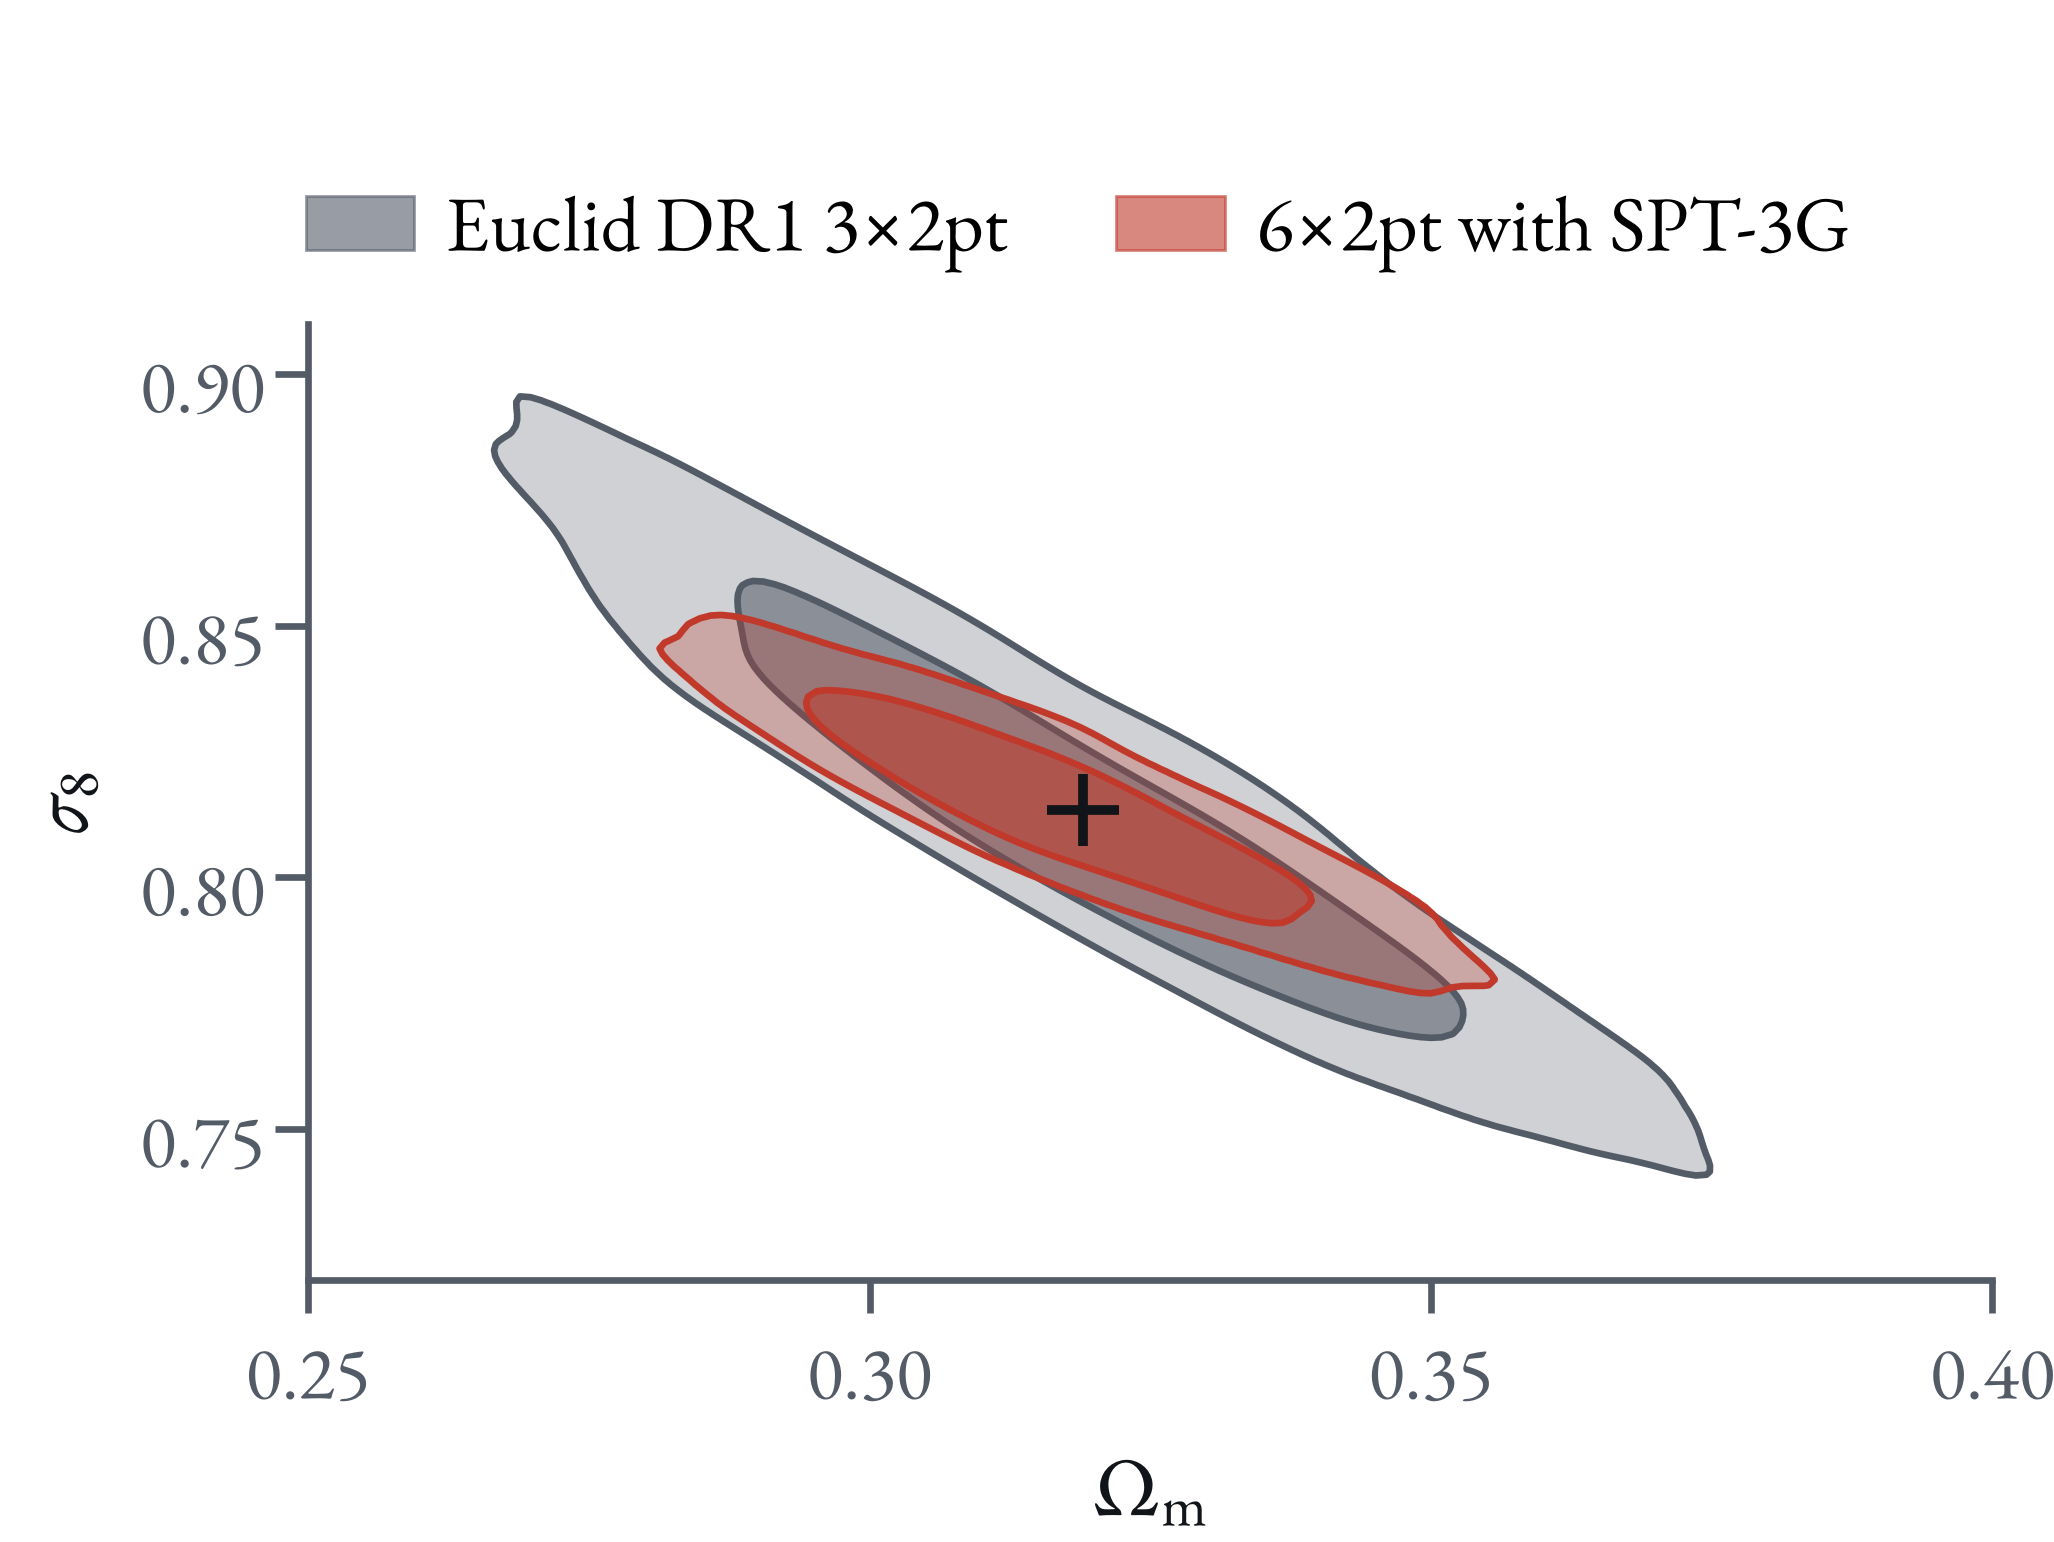
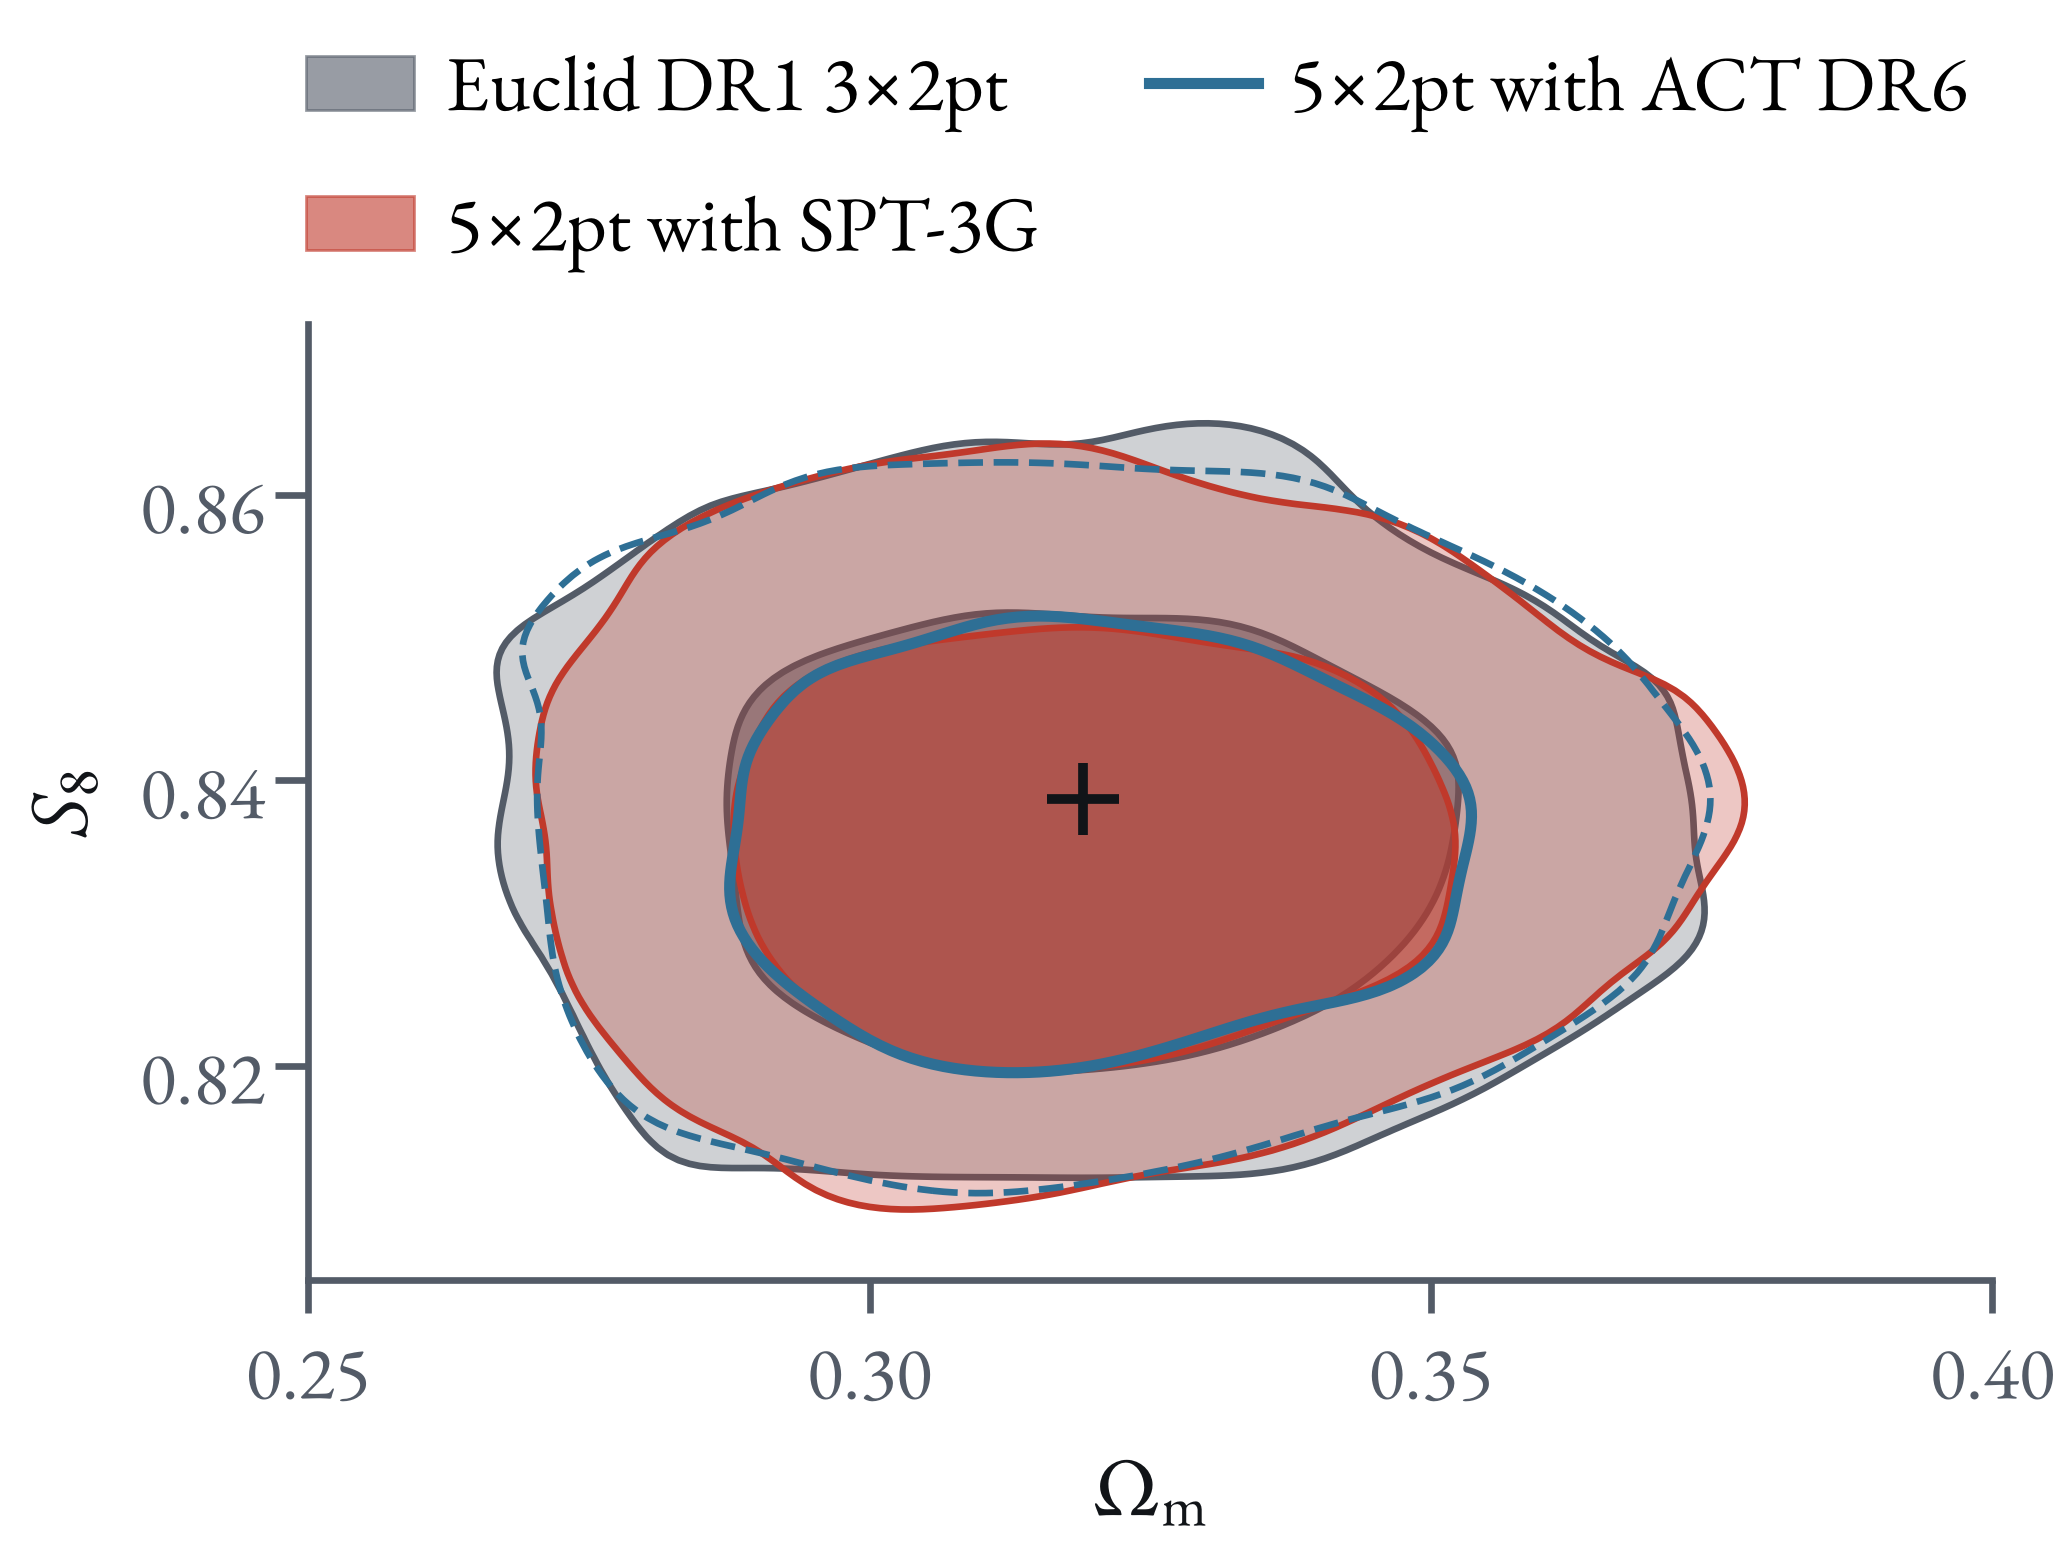
ICE dr1-forecast: S8 against Omega_m, figure of merit, 3x2pt then 5x2pt then 6x2pt in its place
Claude-Session: https://claude.ai/code/session_01JK7o9EG7ekMfsN4ix87xAs

diff --git a/2611_ICE_Barcelona/slides/dr1-forecast.html b/2611_ICE_Barcelona/slides/dr1-forecast.html
@@ -1,23 +1,23 @@
 <section data-layout="figure-text" data-split="60">
-  <h2>CMB lensing halves the DR1 error on σ<sub>8</sub></h2>
+  <h2>CMB lensing more than doubles the DR1 figure of merit</h2>
   <figure>
-    <img src="images/ice_dr1_forecast_1.png" alt="Forecast sigma8 against Omega_m for Euclid DR1 3x2pt on its own, a narrow tilted ellipse">
-    <img class="fragment" data-fragment-index="1" src="images/ice_dr1_forecast_2.png" alt="The same with the SPT-3G Main and Summer 6x2pt added: a red ellipse about half as long along the degeneracy">
-    <img class="fragment" data-fragment-index="2" src="images/ice_dr1_forecast_3.png" alt="The ACT DR6 6x2pt outlined, between the two">
+    <img src="images/ice_dr1_forecast_1.png" alt="Forecast S8 against Omega_m for Euclid DR1 3x2pt on its own, a tilted ellipse">
+    <img class="fragment" data-fragment-index="1" src="images/ice_dr1_forecast_2.png" alt="The 5x2pt with SPT-3G and with ACT DR6 drawn over it: both nearly the same as the 3x2pt">
+    <img class="fragment" data-fragment-index="2" src="images/ice_dr1_forecast_3.png" alt="The 6x2pt with SPT-3G and with ACT DR6 in their place: the SPT-3G ellipse has less than half the area of the 3x2pt">
   </figure>
   <div class="text">
-    <span class="kicker">$\sigma(\sigma_8)$ · SPT-3G is Main + Summer</span>
+    <span class="kicker">$\Omega_\mathrm{m}$–$S_8$ figure of merit</span>
     <ul>
-      <li>DR1 South 3×2pt: 0.029</li>
-      <li class="fragment" data-fragment-index="1">6×2pt with SPT-3G: 0.015</li>
-      <li class="fragment" data-fragment-index="2">6×2pt with ACT: 0.019</li>
-      <li class="fragment" data-fragment-index="3">5×2pt, no κκ: 0.028</li>
-      <li class="fragment" data-fragment-index="3">$S_8$: 0.0105 to 0.0085</li>
+      <li>DR1 South 3×2pt: 1</li>
+      <li class="fragment" data-fragment-index="1">5×2pt: 1.05 with SPT-3G and 1.03 with ACT</li>
+      <li class="fragment" data-fragment-index="2">6×2pt: 2.4 with SPT-3G and 1.7 with ACT</li>
+      <li class="fragment" data-fragment-index="2">$\sigma(S_8)$: 0.0105 to 0.0085</li>
     </ul>
   </div>
   <aside class="notes">
     <ul class="skim">
-      <li><strong>Contours</strong> — 68 % and 95 % for a noiseless Euclid DR1 South vector, $\sigma_8$ against $\Omega_\mathrm{m}$, with the input cosmology as the cross: the 3×2pt alone, then with the SPT-3G fields (Main and Summer together, disjoint on the sky) and with ACT DR6 outlined.</li>
+      <li><strong>Contours</strong> — 68 % and 95 % for a noiseless Euclid DR1 South vector, $S_8$ against $\Omega_\mathrm{m}$, with the input cosmology as the cross: the 3×2pt alone and kept throughout, then the 5×2pt with SPT-3G (Main and Summer together, disjoint on the sky) filled and with ACT DR6 outlined, then the 6×2pt of each in their place.</li>
+      <li><strong>Figure of merit</strong> — $1/\sqrt{\det C}$ of $(\Omega_\mathrm{m}, S_8)$, relative to the 3×2pt: 2.39 with both SPT-3G fields (Main alone 2.12, Summer alone 1.47), 1.70 with ACT DR6, 1.05 for the 5×2pt with SPT-3G (1.03 with ACT). $\sigma(\sigma_8)$ goes from 0.029 to 0.015 with SPT-3G and 0.019 with ACT; $\sigma(S_8)$ from 0.0105 to 0.0085.</li>
       <li><strong>6×2pt</strong> — all the auto- and cross-spectra of shear, galaxy positions and κ, including $\kappa\kappa$. The $\kappa$ crosses alone (5×2pt) leave the widths within 4 % of the 3×2pt; $\kappa\kappa$ breaks the $\sigma_8$–$\Omega_\mathrm{m}$ degeneracy. It covers each κ map's whole field, not only its overlap with Euclid.</li>
       <li><strong>Check</strong> — the same machinery on the TR1 footprint, densities and noise gives a 5×2pt $\sigma(S_8)$ of 0.0171 and $\sigma(\Omega_\mathrm{m})$ of 0.043 against the real blinded chains' 0.0169 and 0.040 (ratios 1.01 and 1.07); κ crosses alone, $\sigma(S_8)$ 0.0475 against 0.0466.</li>
     </ul>

diff --git a/2611_ICE_Barcelona/slides/summary.html b/2611_ICE_Barcelona/slides/summary.html
@@ -17,7 +17,7 @@
   </figure>
   <aside class="notes">
     <ul class="skim">
-      <li><strong>Euclid × SPT-3G</strong> — the blinded TR1 analysis runs from catalogs to posteriors, and the chain's best fit describes the 651 bands inside the scale cut with $\chi^2 = 577$; at DR1 the forecast gives σ(σ8) 0.029 for the 3×2pt and 0.015 with SPT-3G CMB lensing, nearly all of it from the CMB lensing auto-spectrum; the κ legs of SPT-3G and ACT DR6 differ by 0.07–0.08 in $S_8$ while the full vectors, dominated by the shared galaxy spectra, agree.</li>
+      <li><strong>Euclid × SPT-3G</strong> — the blinded TR1 analysis runs from catalogs to posteriors, and the chain's best fit describes the 651 bands inside the scale cut with $\chi^2 = 577$; at DR1 the forecast figure of merit in Ωm–S8 is 2.4 times the 3×2pt's with SPT-3G CMB lensing, nearly all of it from the CMB lensing auto-spectrum; the κ legs of SPT-3G and ACT DR6 differ by 0.07–0.08 in $S_8$ while the full vectors, dominated by the shared galaxy spectra, agree.</li>
       <li><strong>UNIONS</strong> — the UNIONS-3500 release (Papers I–IV), the v2 catalog and its mock checks, Klara Bertmann's tomographic cosmic shear and the 3×2pt with SPHEREx lenses led by Calum Murray and Cail Daley.</li>
       <li><strong>Simulations</strong> — mocks that reproduce a survey's footprint, noise, redshifts and systematics check each step of an analysis; made fast and faithful enough, they serve explicit (field-level) and implicit (simulation-based) inference.</li>
       <li><strong>Agents</strong> — agents check their own work against mocks whose answer is known, while scientists set the requirements. Public data and agent-assisted analysis may change how collaborations divide their work; this is a question, not a forecast.</li>

diff --git a/2611_ICE_Barcelona/make_dr1_forecast.py b/2611_ICE_Barcelona/make_dr1_forecast.py
@@ -1,9 +1,10 @@
-"""DR1 6x2pt forecast: what CMB lensing adds to Euclid DR1 3x2pt, in the (Omega_m, sigma8) plane.
+"""DR1 6x2pt forecast: what CMB lensing adds to Euclid DR1 3x2pt, in the (Omega_m, S8) plane.
 
 Reads the nested-sampling posteriors of the noiseless DR1 chains (slim.npz, the derived parameters and weights of
 each chain; chain names dr1_<kappa>_<probes>, from /leonardo_scratch/large/userexternal/cdaley00/dr1-forecast).
-Writes images/ice_dr1_forecast_<k>.png (build frames: Euclid alone, then with SPT-3G, then with ACT) and
-dr1_forecast.json (sigma of S8, Omega_m, sigma8 for every chain).
+Writes images/ice_dr1_forecast_<k>.png (build frames: the 3x2pt alone, then the 5x2pt with SPT-3G and with ACT over it, then the 6x2pt in their place) and
+dr1_forecast.json (sigma of S8, Omega_m, sigma8 for every chain, and the figure of merit
+1/sqrt(det C) of (Omega_m, S8)).
 
 Run: uv run --with numpy --with scipy --with matplotlib --with fonttools --with brotli \
        python 2611_ICE_Barcelona/make_dr1_forecast.py --src ~/scratch/dr1fc/slim.npz
@@ -35,7 +36,10 @@ def stats(z, name):
     d, w = z[name + '|d'].astype(float), z[name + '|w'].astype(float)
     w /= w.sum(); m = w @ d
     s = np.sqrt(w @ (d - m) ** 2)
-    return {n: {'mean': round(float(a), 4), 'sigma': round(float(b), 4)} for n, a, b in zip(DERIVED, m, s)}
+    out = {n: {'mean': round(float(a), 4), 'sigma': round(float(b), 4)} for n, a, b in zip(DERIVED, m, s)}
+    q = d[:, [DERIVED.index('Omega_m'), DERIVED.index('S8')]] - m[[DERIVED.index('Omega_m'), DERIVED.index('S8')]]
+    out['fom'] = round(float(np.linalg.det((q * w[:, None]).T @ q) ** -0.5))
+    return out
 
 
 def density(z, name, y):
@@ -60,16 +64,17 @@ def main():
                          'ytick.major.size': 12, 'xtick.major.width': 2.4, 'ytick.major.width': 2.4,
                          'axes.spines.top': False, 'axes.spines.right': False})
     truth = z['dr1_3x2|t']
-    layers = [('dr1_3x2', EUCLID, 'fill', 'Euclid DR1 3×2pt'),
-              ('dr1_MS_6x2', SPT, 'fill', '6×2pt with SPT-3G'),
-              ('dr1_A_6x2', ACT, 'line', '6×2pt with ACT DR6')]
-    for y, ylab, yticks in (('sigma8', r'$\sigma_8$', [0.75, 0.80, 0.85, 0.90]),):
-        dens = [density(z, n, y) for n, *_ in layers]
-        for k in range(1, 4):
+    base = ('dr1_3x2', EUCLID, 'fill', 'Euclid DR1 3×2pt')
+    frames = [[base],
+              [base, ('dr1_MS_5x2', SPT, 'fill', '5×2pt with SPT-3G'), ('dr1_A_5x2', ACT, 'line', '5×2pt with ACT DR6')],
+              [base, ('dr1_MS_6x2', SPT, 'fill', '6×2pt with SPT-3G'), ('dr1_A_6x2', ACT, 'line', '6×2pt with ACT DR6')]]
+    for y, ylab, yticks in (('S8', r'$S_8$', [0.82, 0.84, 0.86]),):
+        for k, layers in enumerate(frames, 1):
+            dens = [density(z, n, y) for n, *_ in layers]
             fig = plt.figure(figsize=(style.W_PX / style.DPI, style.H_PX / style.DPI), dpi=style.DPI)
             ax = fig.add_axes([0.15, 0.17, 0.82, 0.62])
             handles = []
-            for i, (name, color, kind, label) in enumerate(layers[:k]):
+            for i, (name, color, kind, label) in enumerate(layers):
                 xc, yc, H, lv = dens[i]
                 if kind == 'fill':
                     ax.contourf(xc, yc, H, levels=[lv[0], H.max() * 1.01], colors=[color], alpha=.28, zorder=2 + i)
